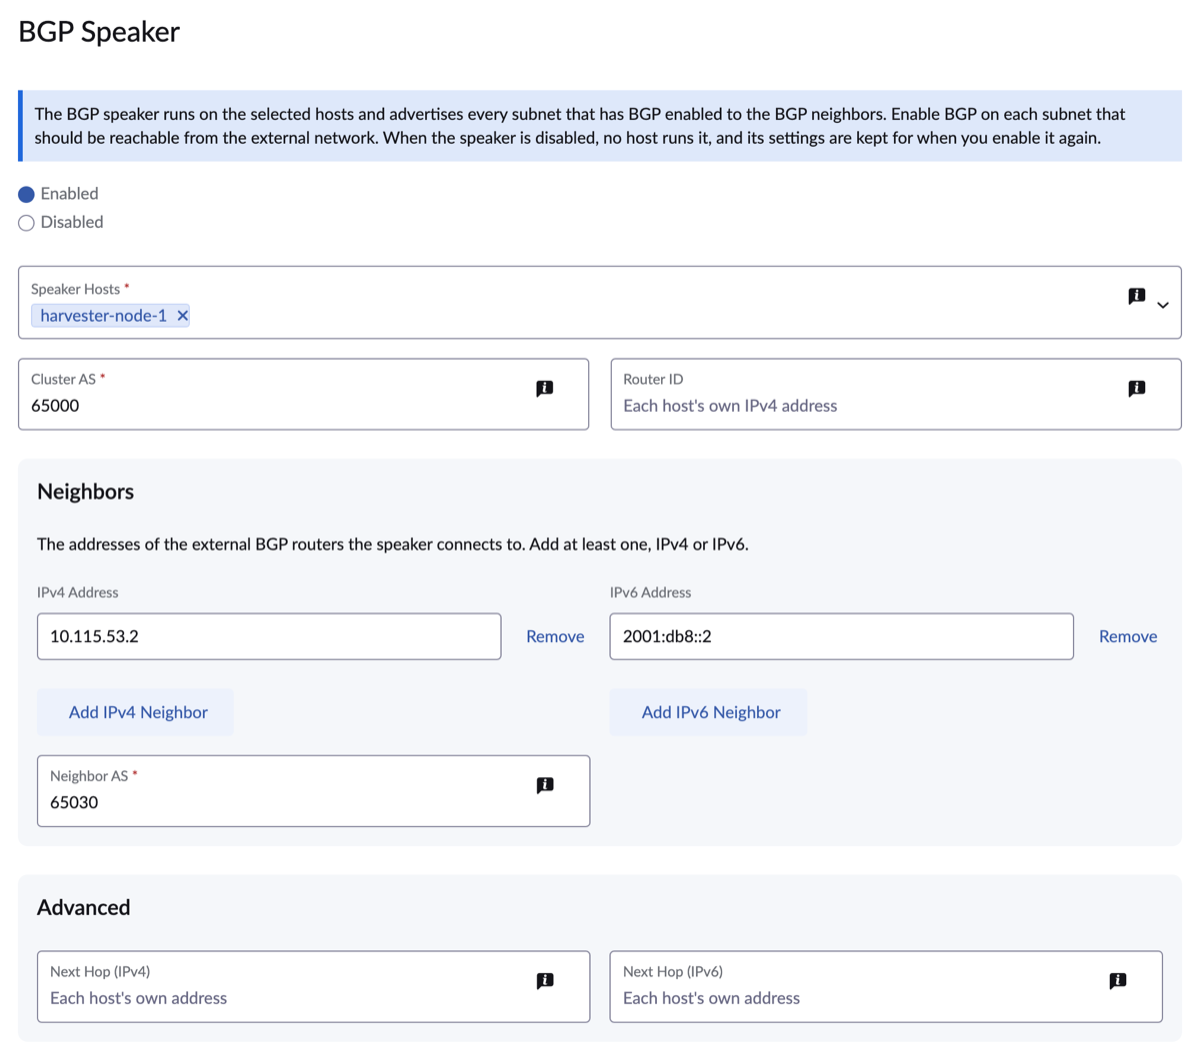
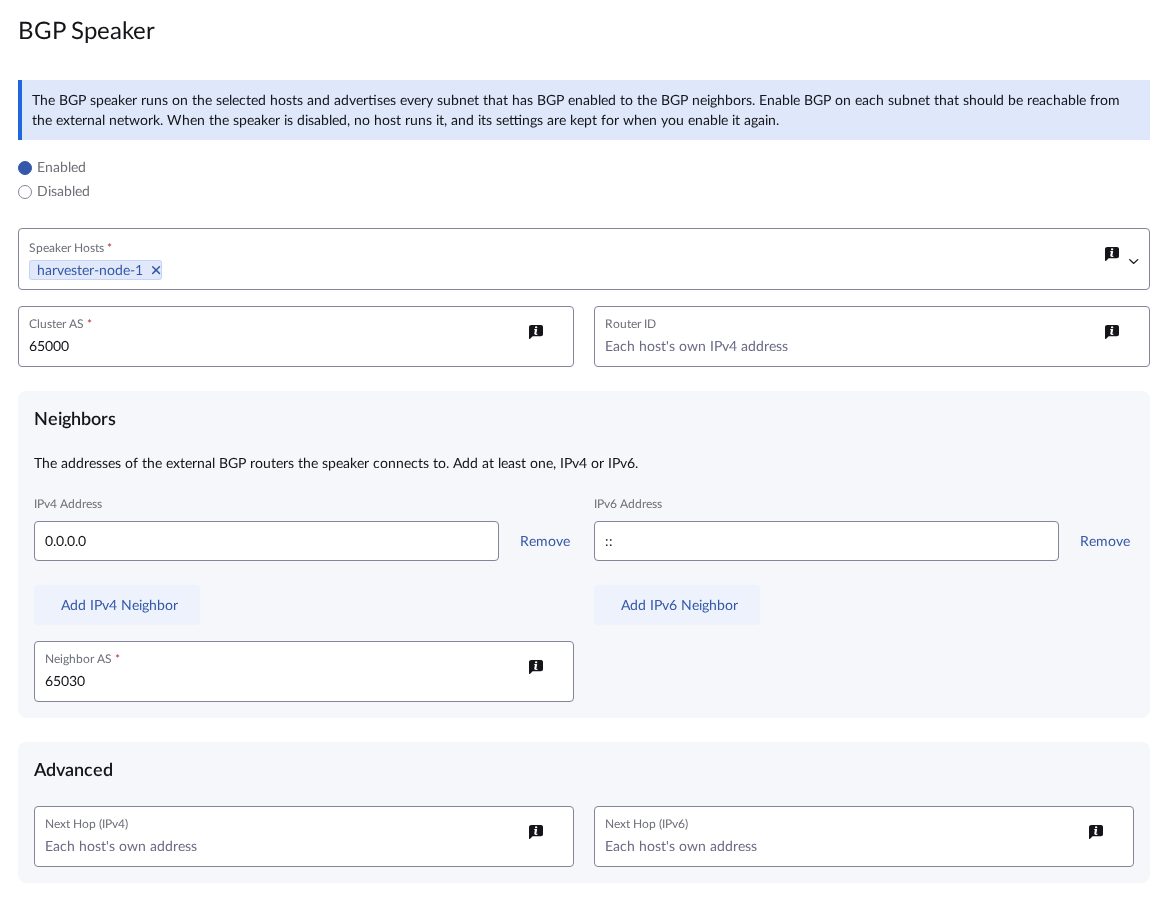
docs: use neutral addresses in the BGP speaker example and screenshot

diff --git a/docs/networking/kubeovn-bgp.md b/docs/networking/kubeovn-bgp.md
@@ -107,8 +107,8 @@ Harvester stores the BGP speaker settings in the `spec.bgp` field of the `kubeov
       bgp:
         nodeNames: harvester-node-1,harvester-node-2
         clusterAS: 65000
-        neighborV4Address: 10.115.53.2
-        neighborV6Address: 2001:db8::2
+        neighborV4Address: 0.0.0.0
+        neighborV6Address: "::"
         neighborAS: 65030
     ```
 
